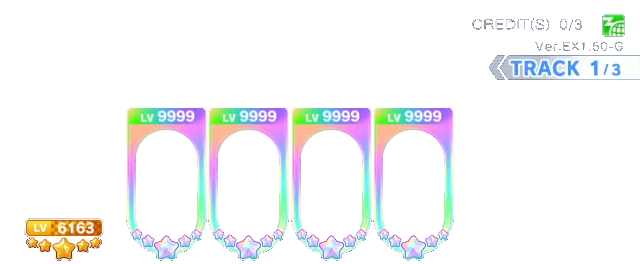
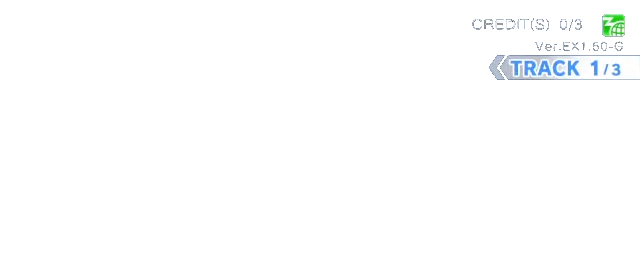
add different layout of tour member

Changed region(s): [[0.0312, 0.3939, 0.7188, 1.0]]

diff --git a/mai-tools/js/others/collection.js b/mai-tools/js/others/collection.js
@@ -1,4 +1,5 @@
 const showCollection = (data) => {
+    console.log(data);
     $('#icon').attr('src', data.icon);
     $('#user-name').text(data.name);
     $('#rating').text(data.rating);
@@ -14,6 +15,55 @@ const showCollection = (data) => {
     $('#member3').attr('src', data.characters[2]);
     $('#member4').attr('src', data.characters[3]);
     $('#member5').attr('src', data.characters[4]);
+
+     if(data.charactersLevel[0].replace('lv','') >= 1 && data.charactersLevel[0].replace('Lv','') <= 8){
+            $('#leader-bar').attr('src', '/mai-tools/img/member_blue_bar.png');
+        } else if(data.charactersLevel[0].replace('Lv','') >= 9 && data.charactersLevel[0].replace('Lv','') <= 48){
+            $('#leader-bar').attr('src', '/mai-tools/img/member_green_bar.png');
+        } else if(data.charactersLevel[0].replace('Lv','') >= 49 && data.charactersLevel[0].replace('Lv','') <= 98){
+            $('#leader-bar').attr('src', '/mai-tools/img/member_red_bar.png');
+        } else if(data.charactersLevel[0].replace('Lv','') >= 99 && data.charactersLevel[0].replace('Lv','') <= 298){
+            $('#leader-bar').attr('src', '/mai-tools/img/member_bronze_bar.png');
+        } else if(data.charactersLevel[0].replace('Lv','') >= 299 && data.charactersLevel[0].replace('Lv','') <= 998){
+            $('#leader-bar').attr('src', '/mai-tools/img/member_silver_bar.png');
+        } else if(data.charactersLevel[0].replace('Lv','') >= 999 && data.charactersLevel[0].replace('Lv','') <= 9998){
+            $('#leader-bar').attr('src', '/mai-tools/img/member_gold_bar.png');
+        } else if(data.charactersLevel[0].replace('Lv','') >= 9999){
+            $('#leader-bar').attr('src', '/mai-tools/img/member_rainbow_bar.png');
+        }   
+
+    const dict = {
+        1: 'member2',
+        2: 'member3',
+        3: 'member4',
+        4: 'member5'
+    };
+    for (let i = 1; i < data.charactersLevel.length; i++) {
+        if(data.charactersLevel[i].replace('lv','') >= 1 && data.charactersLevel[i].replace('Lv','') <= 8){
+            $('#' + dict[i] + '-bg').attr('src', '/mai-tools/img/member_blue_bg.png');
+            $('#' + dict[i] + '-layout').attr('src', '/mai-tools/img/member_blue_layout.png');
+        } else if(data.charactersLevel[i].replace('Lv','') >= 9 && data.charactersLevel[i].replace('Lv','') <= 48){
+            $('#' + dict[i] + '-bg').attr('src', '/mai-tools/img/member_green_bg.png');
+            $('#' + dict[i] + '-layout').attr('src', '/mai-tools/img/member_green_layout.png');
+        } else if(data.charactersLevel[i].replace('Lv','') >= 49 && data.charactersLevel[i].replace('Lv','') <= 98){
+            $('#' + dict[i] + '-bg').attr('src', '/mai-tools/img/member_red_bg.png');
+            $('#' + dict[i] + '-layout').attr('src', '/mai-tools/img/member_red_layout.png');
+        } else if(data.charactersLevel[i].replace('Lv','') >= 99 && data.charactersLevel[i].replace('Lv','') <= 298){
+            $('#' + dict[i] + '-bg').attr('src', '/mai-tools/img/member_bronze_bg.png');
+            $('#' + dict[i] + '-layout').attr('src', '/mai-tools/img/member_bronze_layout.png');
+        } else if(data.charactersLevel[i].replace('Lv','') >= 299 && data.charactersLevel[i].replace('Lv','') <= 998){
+            $('#' + dict[i] + '-bg').attr('src', '/mai-tools/img/member_silver_bg.png');
+            $('#' + dict[i] + '-layout').attr('src', '/mai-tools/img/member_silver_layout.png');
+        } else if(data.charactersLevel[i].replace('Lv','') >= 999 && data.charactersLevel[i].replace('Lv','') <= 9998){
+            $('#' + dict[i] + '-bg').attr('src', '/mai-tools/img/member_gold_bg.png');
+            $('#' + dict[i] + '-layout').attr('src', '/mai-tools/img/member_gold_layout.png');
+        } else if(data.charactersLevel[i].replace('Lv','') >= 9999){
+            $('#' + dict[i] + '-bg').attr('src', '/mai-tools/img/member_rainbow_bg.png');
+            $('#' + dict[i] + '-layout').attr('src', '/mai-tools/img/member_rainbow_layout.png');
+        }   
+    }
+
+
 }
 
 const toggleDisplay = (id) => {

diff --git a/mai-tools/collection.html b/mai-tools/collection.html
@@ -72,30 +72,27 @@
                 </div>
                 <div id="div-leader">
                     <img id="leader" src="" width="183" />
+                    <img id="leader-bar" src="" />
                 </div>
                 <div id="div-member2">
-                    <div class="level">
-                        LV<span style="font-size: 13px;"> 9999</span>
-                    </div>
                     <img id="member2" src="" />
+                    <img id="member2-bg" src="" />
+                    <img id="member2-layout" src="" />
                 </div>
                 <div id="div-member3">
-                    <div class="level">
-                        LV<span style="font-size: 13px;"> 9999</span>
-                    </div>
                     <img id="member3" src="" />
+                    <img id="member3-bg" src="" />
+                    <img id="member3-layout" src="" />
                 </div>
                 <div id="div-member4">
-                    <div class="level">
-                        LV<span style="font-size: 13px;"> 9999</span>
-                    </div>
                     <img id="member4" src="" />
+                    <img id="member4-bg" src="" />
+                    <img id="member4-layout" src="" />
                 </div>
                 <div id="div-member5">
-                    <div class="level">
-                        LV<span style="font-size: 13px;"> 9999</span>
-                    </div>
                     <img id="member5" src="" />
+                    <img id="member5-bg" src="" />
+                    <img id="member5-layout" src="" />
                 </div>
             </div>
             <div id="filters" class="d-flex justify-content-center mb-3">
@@ -362,6 +359,25 @@
     #member5 {
         width: 117px;
         clip-path: polygon(20% 0, 80% 0, 80% 80%, 68% 94%, 50% 100%, 32% 94%, 20% 80%);
+    }
+
+    #leader-bar {
+        position: absolute;
+        left: 52px;
+        bottom: 6px;
+    }
+
+    #member2-bg, #member3-bg, #member4-bg, #member5-bg {
+        position: absolute;
+        left: 19px;
+        bottom: -15px;
+        z-index: -1;
+    }
+
+    #member2-layout, #member3-layout, #member4-layout, #member5-layout {
+        position: absolute;
+        left: 19px;
+        bottom: -15px;
     }
 
     .level {
